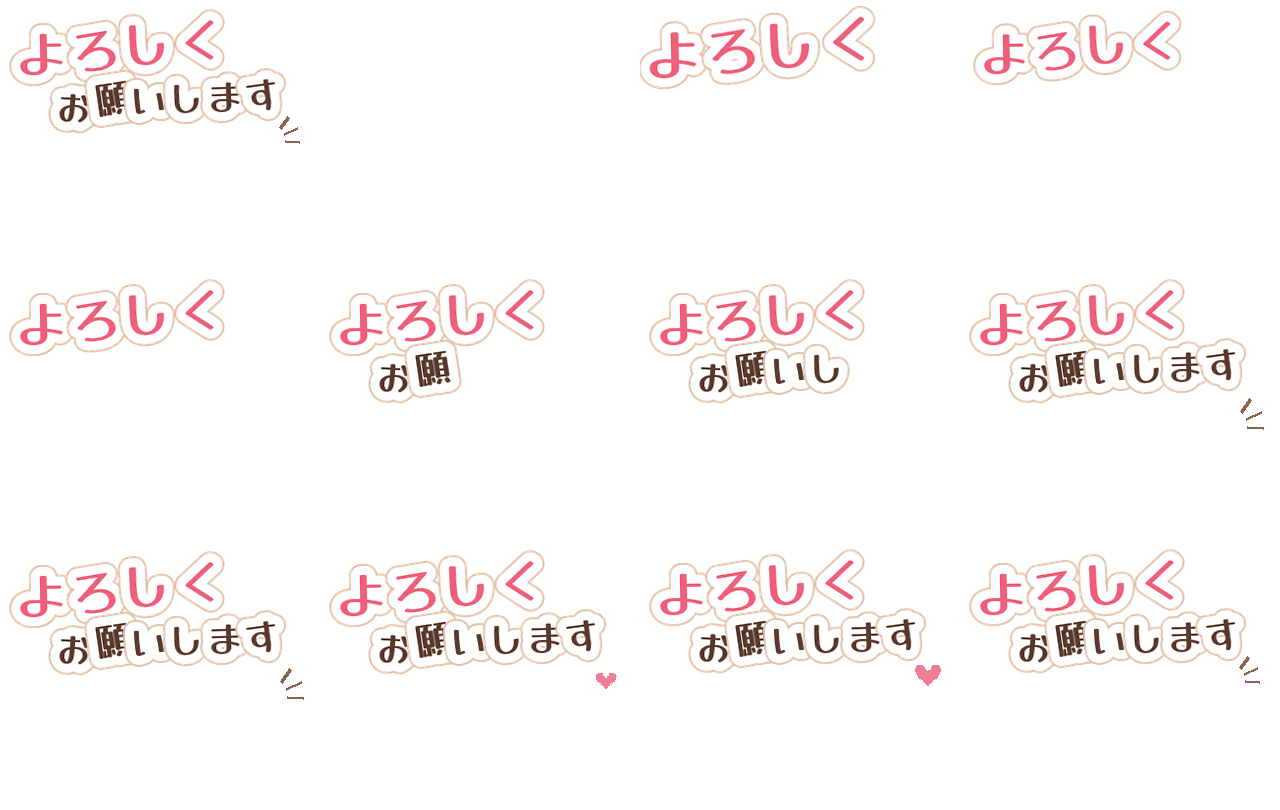
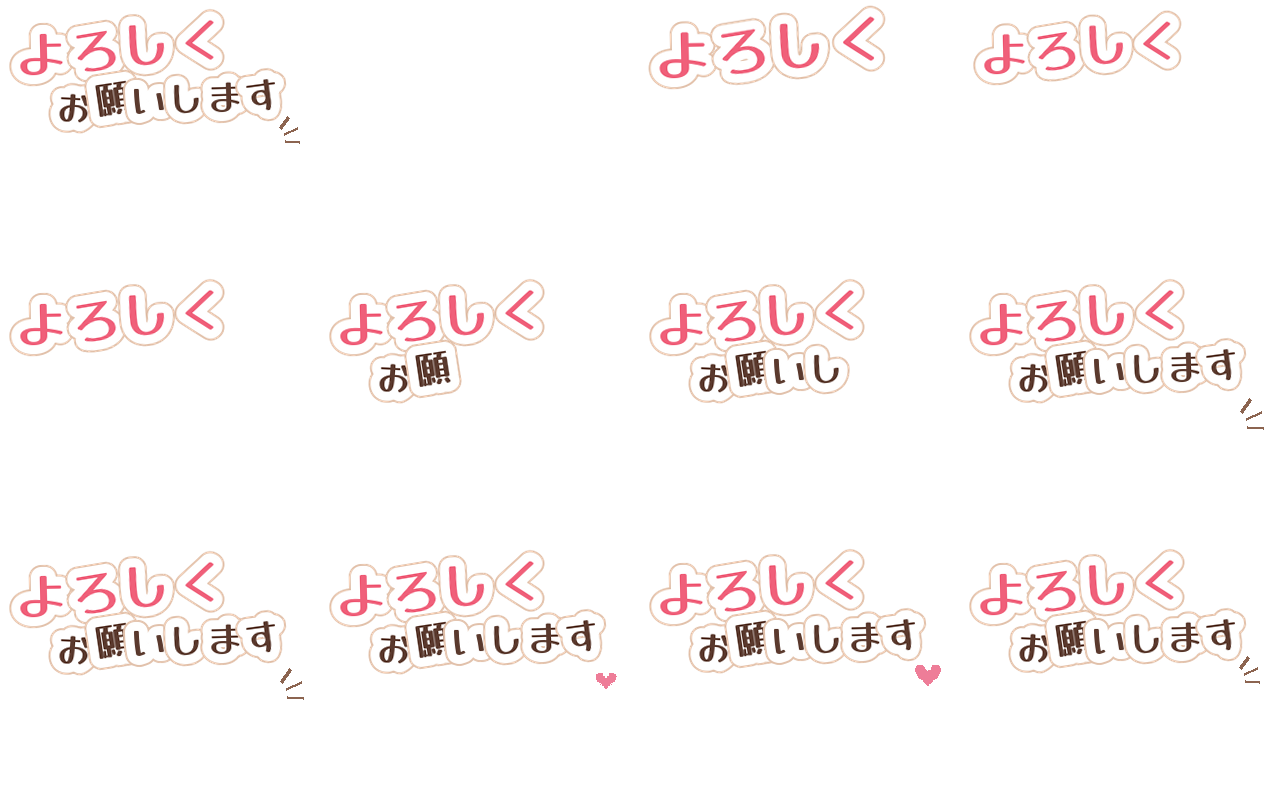
set01 v2: QA指摘B/C修正(04の文字切れ・2コマ目の表情)をCanvaに反映し再書き出し
Claude-Session: https://claude.ai/code/session_01RfomAZL54wRevPjVr3cHPk

Changed region(s): [[0.5, 0.0, 0.6875, 0.1235]]

diff --git a/tools/soft.py b/tools/soft.py
@@ -292,9 +292,10 @@ def zz(i):
     return [("z", 272 + i * 2, 146 - i * 4, 24 + i % 2 * 4), ("z", 288 + i, 120 - i * 3, 16)]
 
 
-def yoro(scale=1.0, n2=0, bob=0):
-    """「よろしく」(強調語・コーラル)は左上にポンと出し、「お願いします」は頭に重ねて左から書いていく。"""
-    ws = [word("よろしく", 120, 42 + bob, 54, CORAL, rot=-6, scale=scale, seed=1)]
+def yoro(scale=1.0, n2=0, bob=0, dx=0):
+    """「よろしく」(強調語・コーラル)は左上にポンと出し、「お願いします」は頭に重ねて左から書いていく。
+    dx: 大きくポンと出すコマで左端が切れないよう右へずらす量。"""
+    ws = [word("よろしく", 120 + dx, 42 + bob, 54, CORAL, rot=-6, scale=scale, seed=1)]
     if n2:  # 2行目はキャラの頭に少し重ねて、文字を前に出す
         ws.append(word("お願いします", 168, 98 + bob, 38, BROWN, rot=-3, arc=0.2, seed=2, count=n2))
     return ws
@@ -314,7 +315,7 @@ STAMPS = {
            kf([SAL], f01(rs=1, bob=1), [("spark", 284, 114, 14), ("spark", 108, 150, 11)]),
            kf([SAL], f01(rs=1), SPK01)],
     "02": [kf([B2, happy], f02(rs=1), [("heart", 282, 132, 14), ("heart", 110, 156, 10)]),
-           kf([S]),
+           kf([S, happy]),
            kf([S, happy], f02(ks=1.08)),
            kf([S, happy], f02(ks=0.96)),
            kf([S, happy], f02()),
@@ -326,7 +327,7 @@ STAMPS = {
            kf([B1, happy], f02(rs=1, bob=1), [("heart", 283, 126, 15), ("heart", 110, 152, 11)]),
            kf([B2, happy], f02(rs=1), [("heart", 282, 132, 14), ("heart", 110, 156, 10)])],
     "03": [kf([W_A], f03(rs=1)),
-           kf([S]),
+           kf([S, happy]),
            kf([W_A], f03(n1=2)),
            kf([W_B], f03(n1=4)),
            kf([W_A], f03()),
@@ -338,10 +339,10 @@ STAMPS = {
            kf([W_A], f03(rs=1, bob=1)),
            kf([W_A], f03(rs=1))],
     "04": [kf([B1], yoro(1, 6), [PEKO1]),
-           kf([S]),
-           kf([S], yoro(1.12)),
-           kf([S], yoro(0.96)),
-           kf([S], yoro(1.0)),
+           kf([S, blink]),
+           kf([S, blink], yoro(1.12, dx=10)),
+           kf([S, blink], yoro(0.96)),
+           kf([S, blink], yoro(1.0)),
            kf([B1], yoro(1.0, 2)),
            kf([B2], yoro(1.0, 4)),
            kf([B2], yoro(1.0, 6), [PEKO2]),
@@ -362,7 +363,7 @@ STAMPS = {
            kf([SAL], f05(rs=1, wave=(3, 3.2)), [("spark", 292, 146, 13), ("spark", 112, 158, 10)]),
            kf([SAL], f05(rs=1), SPK05)],
     "06": [kf([B1, X], f06(), SW06),
-           kf([S]),
+           kf([B1, X]),
            kf([B1, X], f06(n1=2, last1=1.3)),
            kf([B1, X, sh(-3)], f06(n1=3, last1=1.3, shiver=(2, 4, 1)), SW06[:1]),
            kf([B1, X, sh(3)], f06(n1=5, last1=1.3, shiver=(2, 4, 2)), SW06),
@@ -386,7 +387,7 @@ STAMPS = {
            kf([N2, happy], f07(wave=(4, 4.8), rs=1), SPK07b),
            kf([N2], f07(rs=1), SPK07)],
     "08": [kf([inko.sway(0, 0)], f08(rs=1), zz(0)),
-           kf([S]),
+           kf([blink]),
            kf([blink], f08(ks=1.06)),
            kf([inko.sway(4, 5)], f08(wave=(2, 0))),
            kf([inko.sway(6, 8)], f08(wave=(2, 0.8), rs=1, n2=1), zz(1)[:1]),

diff --git a/work/set01/qa.md b/work/set01/qa.md
@@ -258,3 +258,14 @@
 - 半分の大きさで見ても、強調語(承知/ありがとう/お疲れさま/よろしく/了解/すみません/おはよう/おやすみ)はすぐ読める。語尾の茶色(ございます・お願いします)は小さめだが、読める範囲。
 - 職場・PTA の連絡で、毎日使うあいさつ・返事がそろっている。一覧で見たときの可愛さは v1 より明らかに上がった。
 - 弱い点: 8個とも「文字が消えて、また出てくる」同じ型になっていて、動きの変化が少ない(調査では A/B/C の型を混ぜるのがおすすめ)。また、前回の指摘どおり、パッと見はひよこに見えやすい(販売ページの説明文に「インコ」と書くこと)。
+
+### v2 QA指摘の修正結果
+
+| 指摘 | 内容 | 対応 |
+|---|---|---|
+| A | 文字のすき間(「お」「あ」などの輪の中)に黒い点が出る | `stamp_tool.py` に穴埋め処理(`fill_holes`)を追加して全8個を作り直し。解決 |
+| B | 04 の3コマ目で「よろしく」が左端で切れる | 文字の位置を右へずらし、左に8pxの余白を確保。解決 |
+| C | 2コマ目だけ普通の顔になり、表情がちらつく | 02/03 は笑顔、04/08 は目を閉じた顔、06 は「><」顔にそろえた。解決 |
+
+- 作り直した 02/03/04/06/08 は、どれも 320×270・12コマ・2秒×2回、300,000バイト以下(04 が最大で 295,694バイト)。
+- 任意の指摘(04 を 270KB 以下にする、タブ画像の位置、06 の動きの変化)は今回は見送り。
